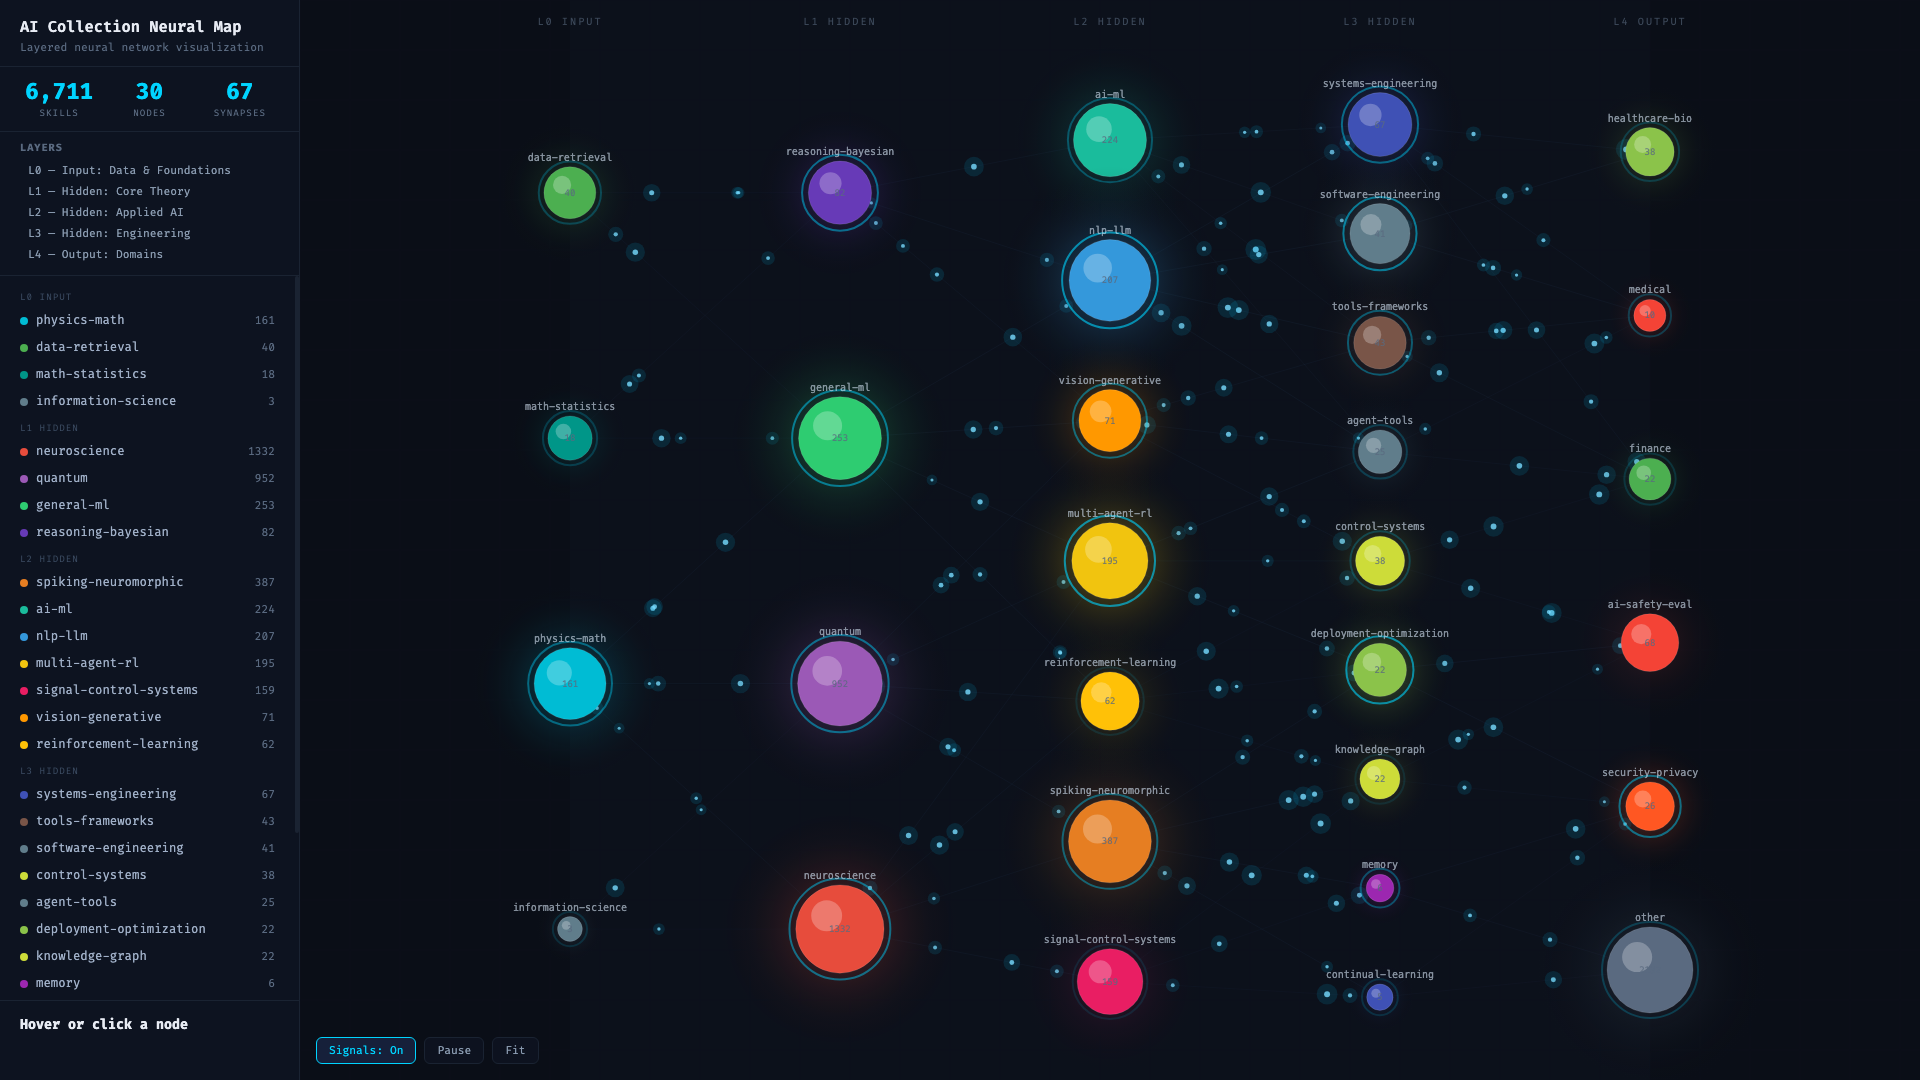
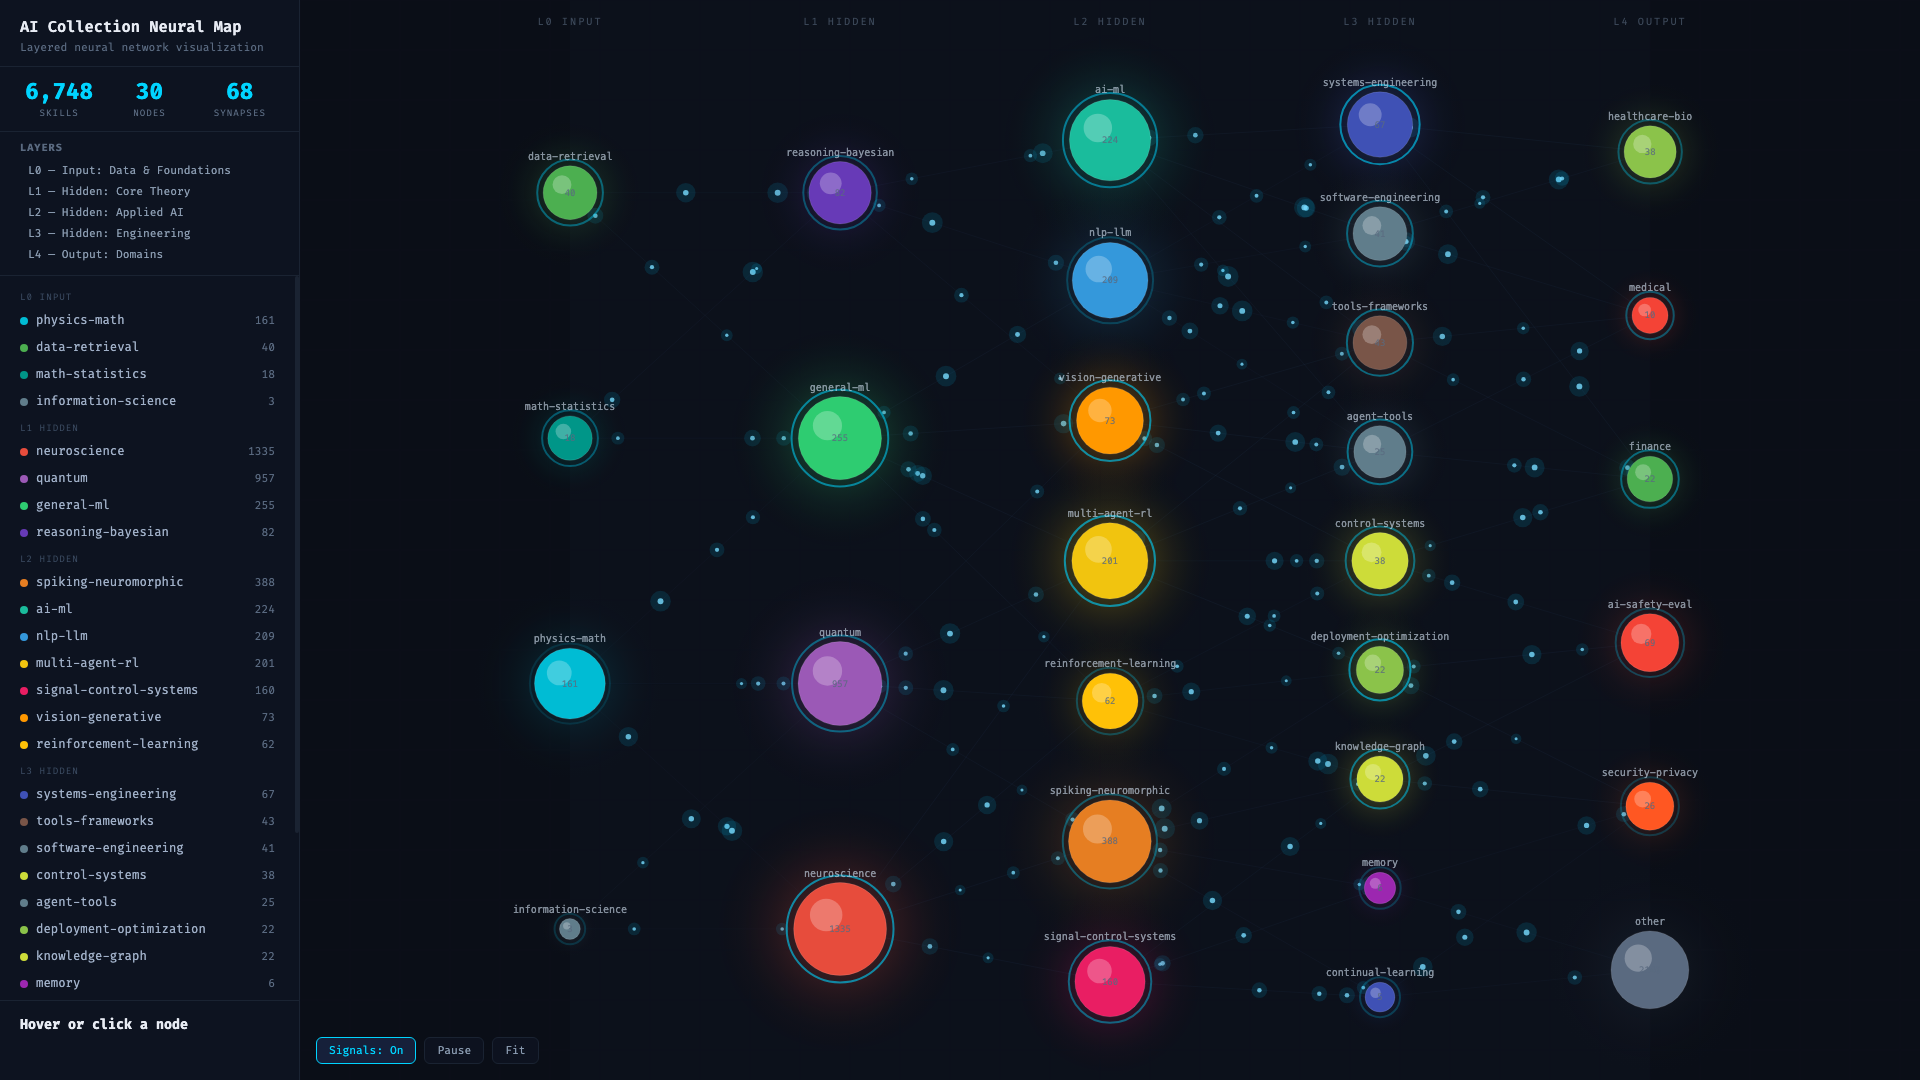
merge: daily branch consolidation + classify flat skills + neural map update

diff --git a/docs/html/skill-neural-map.html b/docs/html/skill-neural-map.html
@@ -317,7 +317,7 @@ body {
 // ============================================================
 // DATA — generated from collection/skills/ directory structure
 // ============================================================
-const SKILL_DATA = {"categories": [{"name": "other", "count": 2132, "color": "#5a6a80"}, {"name": "neuroscience", "count": 1335, "color": "#e74c3c"}, {"name": "quantum", "count": 952, "color": "#9b59b6"}, {"name": "spiking-neuromorphic", "count": 387, "color": "#e67e22"}, {"name": "general-ml", "count": 254, "color": "#2ecc71"}, {"name": "ai-ml", "count": 224, "color": "#1abc9c"}, {"name": "nlp-llm", "count": 209, "color": "#3498db"}, {"name": "multi-agent-rl", "count": 200, "color": "#f1c40f"}, {"name": "physics-math", "count": 161, "color": "#00bcd4"}, {"name": "signal-control-systems", "count": 160, "color": "#e91e63"}, {"name": "reasoning-bayesian", "count": 82, "color": "#673ab7"}, {"name": "vision-generative", "count": 73, "color": "#ff9800"}, {"name": "ai-safety-eval", "count": 69, "color": "#f44336"}, {"name": "systems-engineering", "count": 67, "color": "#3f51b5"}, {"name": "reinforcement-learning", "count": 62, "color": "#ffc107"}, {"name": "tools-frameworks", "count": 43, "color": "#795548"}, {"name": "software-engineering", "count": 41, "color": "#607d8b"}, {"name": "data-retrieval", "count": 40, "color": "#4caf50"}, {"name": "control-systems", "count": 38, "color": "#cddc39"}, {"name": "healthcare-bio", "count": 38, "color": "#8bc34a"}, {"name": "security-privacy", "count": 26, "color": "#ff5722"}, {"name": "agent-tools", "count": 25, "color": "#607d8b"}, {"name": "deployment-optimization", "count": 22, "color": "#8bc34a"}, {"name": "finance", "count": 22, "color": "#4caf50"}, {"name": "knowledge-graph", "count": 22, "color": "#cddc39"}, {"name": "math-statistics", "count": 18, "color": "#009688"}, {"name": "medical", "count": 10, "color": "#f44336"}, {"name": "memory", "count": 6, "color": "#9c27b0"}, {"name": "continual-learning", "count": 5, "color": "#3f51b5"}, {"name": "information-science", "count": 3, "color": "#607d8b"}, {"name": "chat-history-lancedb", "count": 0, "color": "#455a64"}, {"name": "skill-rag-indexer", "count": 0, "color": "#455a64"}], "total": 6726};
+const SKILL_DATA = {"categories": [{"name": "other", "count": 2146, "color": "#5a6a80"}, {"name": "neuroscience", "count": 1335, "color": "#e74c3c"}, {"name": "quantum", "count": 957, "color": "#9b59b6"}, {"name": "spiking-neuromorphic", "count": 388, "color": "#e67e22"}, {"name": "general-ml", "count": 255, "color": "#2ecc71"}, {"name": "ai-ml", "count": 224, "color": "#1abc9c"}, {"name": "nlp-llm", "count": 209, "color": "#3498db"}, {"name": "multi-agent-rl", "count": 201, "color": "#f1c40f"}, {"name": "physics-math", "count": 161, "color": "#00bcd4"}, {"name": "signal-control-systems", "count": 160, "color": "#e91e63"}, {"name": "reasoning-bayesian", "count": 82, "color": "#673ab7"}, {"name": "vision-generative", "count": 73, "color": "#ff9800"}, {"name": "ai-safety-eval", "count": 69, "color": "#f44336"}, {"name": "systems-engineering", "count": 67, "color": "#3f51b5"}, {"name": "reinforcement-learning", "count": 62, "color": "#ffc107"}, {"name": "tools-frameworks", "count": 43, "color": "#795548"}, {"name": "software-engineering", "count": 41, "color": "#607d8b"}, {"name": "data-retrieval", "count": 40, "color": "#4caf50"}, {"name": "control-systems", "count": 38, "color": "#cddc39"}, {"name": "healthcare-bio", "count": 38, "color": "#8bc34a"}, {"name": "security-privacy", "count": 26, "color": "#ff5722"}, {"name": "agent-tools", "count": 25, "color": "#607d8b"}, {"name": "deployment-optimization", "count": 22, "color": "#8bc34a"}, {"name": "finance", "count": 22, "color": "#4caf50"}, {"name": "knowledge-graph", "count": 22, "color": "#cddc39"}, {"name": "math-statistics", "count": 18, "color": "#009688"}, {"name": "medical", "count": 10, "color": "#f44336"}, {"name": "memory", "count": 6, "color": "#9c27b0"}, {"name": "continual-learning", "count": 5, "color": "#3f51b5"}, {"name": "information-science", "count": 3, "color": "#607d8b"}, {"name": "chat-history-lancedb", "count": 0, "color": "#455a64"}, {"name": "skill-rag-indexer", "count": 0, "color": "#455a64"}], "total": 6748};
 
 // ============================================================
 // NEURAL NETWORK LAYER MAPPING
